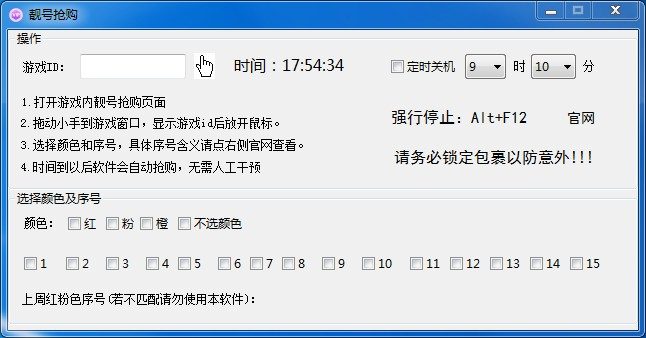
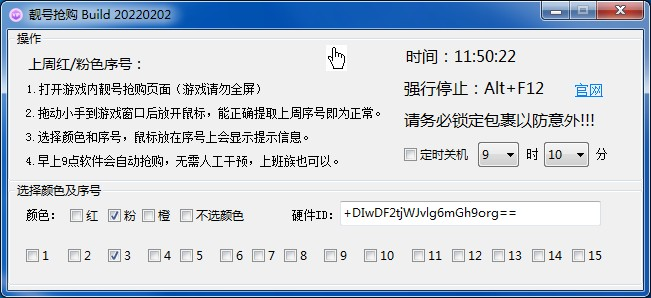
Site updated: 2022-02-02 12:14:17

diff --git a/2021/09/26/代抢靓号/index.html b/2021/09/26/代抢靓号/index.html
@@ -185,7 +185,7 @@
     
     <span class="post-meta mr-2">
       <i class="iconfont icon-chart"></i>
-      861 字
+      918 字
     </span>
   
 
@@ -233,12 +233,12 @@
 <p><strong>指定颜色</strong>：粉色100r，红色150r；</p>
 <p>如果一次抢到多个靓号，单次只收取最高的一个费用。例如同时抢到橙色和粉色的，则收费为60r而不是80r。</p>
 <p>注：报价对应1个角色，如有多个角色均收取对应费用。</p>
-<p><strong>用户自己抢：</strong>软件发给用户，软件收费每个授权50r（2022.5.1之前仅需30r），软件为先发给你用，抢到以后再支付费用，<strong>每个角色1个授权</strong>，该角色想抢多少个靓号你随意。软件下载及使用方法见：<a href="/2022/01/30/%E9%9D%93%E5%8F%B7%E6%8A%A2%E8%B4%AD%E8%BD%AF%E4%BB%B6">靓号指定颜色抢购软件</a></p>
+<p><strong>用户自己抢：</strong>软件发给用户，软件收费每个授权50r（2022.5.1之前仅需30r），软件为先发给你用，抢到以后再支付费用，<strong>每个角色1个授权</strong>，该角色想抢多少个靓号你随意，没有使用次数限制。软件下载及使用方法见：<a href="/2022/01/30/%E9%9D%93%E5%8F%B7%E6%8A%A2%E8%B4%AD%E8%BD%AF%E4%BB%B6">靓号指定颜色抢购软件</a></p>
 <p><img src="/2021/09/26/%E4%BB%A3%E6%8A%A2%E9%9D%93%E5%8F%B7/Snipaste_2022-01-30_18-56-08.jpg" srcset="/img/loading.gif" lazyload alt="指定颜色抢购软件"></p>
 </blockquote>
 <h4 id="需要准备什么？"><a href="#需要准备什么？" class="headerlink" title="需要准备什么？"></a>需要准备什么？</h4><blockquote>
 <p>1.绑定和不绑定元宝<strong>总数要2.1w以上</strong>，并将元宝总数告知我，29999元宝请报2.9w而不是3w；</p>
-<p>2.<strong>包裹务必加好密码</strong>（通常不需要告诉我，除非我找你要），务必留出<strong>5个空余格子</strong>；</p>
+<p>2.<strong>包裹务必加好密码</strong>（通常不需要告诉我，除非我找你要），务必留出<strong>5个空余格子</strong>，一个靓号道具占1个格子，还要防止在线送道具占用格子。</p>
 <p>3.若在活动期有系统赠送在线半小时道具，请于凌晨挂满3个小时，以防止抢购时刚好出现如下界面干扰抢购；如有需要可以下载定时关机软件：<a target="_blank" rel="noopener" href="https://m01.lanzouq.com/iwcZFkd9mti">https://m01.lanzouq.com/iwcZFkd9mti</a></p>
 <p><img src="/2021/09/26/%E4%BB%A3%E6%8A%A2%E9%9D%93%E5%8F%B7/Snipaste_2021-11-01_10-05-10-16357564886691.jpg" srcset="/img/loading.gif" lazyload alt="在线每半小时赠送道具的提示，请提前挂满！"></p>
 </blockquote>
@@ -246,7 +246,7 @@
 <p>代抢目前排队大约2个月以上。您可以先约定排队，等安排的时候通常会提前沟通。每个人都需要申请排队，如果你绑了朋友将军令可以扫码则可以申请多人同时排队。</p>
 </blockquote>
 <h4 id="可以插队吗？"><a href="#可以插队吗？" class="headerlink" title="可以插队吗？"></a>可以插队吗？</h4><blockquote>
-<p>一般是不建议插队的，大家都在排队等待。如果一定要插队，则额外加收50r费用（按角色收费，每角色只收1次插队费）。插队只是不需要等待排队，并不代表1次就可以抢到，也可能2-3次才能抢到。</p>
+<p>一般是不建议插队的，大家都在排队等待。如果一定要插队，则额外加收50r费用（按角色收费，每角色只收1次插队费）。插队只是不需要等待排队，并不代表1次就可以抢到，也可能2-3次才能抢到。推荐大家购买授权自己抢指定颜色，并且还便宜，上班族也可。</p>
 </blockquote>
 <h4 id="抢购时间"><a href="#抢购时间" class="headerlink" title="抢购时间"></a>抢购时间</h4><blockquote>
 <p>周一上午9:00</p>

diff --git a/2022/01/30/靓号抢购软件/index.html b/2022/01/30/靓号抢购软件/index.html
@@ -185,7 +185,7 @@
     
     <span class="post-meta mr-2">
       <i class="iconfont icon-chart"></i>
-      485 字
+      597 字
     </span>
   
 
@@ -195,7 +195,7 @@
       <i class="iconfont icon-clock-fill"></i>
       
       
-      5
+      6
        分钟
     </span>
   
@@ -244,17 +244,21 @@
 <p>1.软件需要联网对时，保持和服务器时间同步，请勿阻止联网；</p>
 <p>2.北京NPC梁浩-本周靓号-本周售卖靓号，打开抢购页面：</p>
 <p><img src="/2022/01/30/%E9%9D%93%E5%8F%B7%E6%8A%A2%E8%B4%AD%E8%BD%AF%E4%BB%B6/Snipaste_2022-01-30_19-58-58.jpg" srcset="/img/loading.gif" lazyload alt="靓号抢购界面"></p>
-<p>3.拖动软件界面的小手到游戏窗口，软件上出现游戏id时松开鼠标，选择自己需要的颜色及编号；</p>
-<p>4.游戏窗口处于当前激活状态，等待开始即可，到时间后软件会自动抢购，无需人工干预；</p>
+<p>3.拖动软件界面的小手到游戏窗口，松开鼠标，会提取到页面显示靓号的红色、粉色序号。若不能提取或提取不完整，请联系博主；</p>
+<p>4.游戏窗口至于当前激活状态，等待开始即可，9点时软件会自动抢购，无需人工干预；</p>
 </blockquote>
 <h4 id="注意事项："><a href="#注意事项：" class="headerlink" title="注意事项："></a>注意事项：</h4><blockquote>
 <p>5.上班族，可以在出门前做好上述4步，就可以做到自己抢靓号。</p>
-<p>6.游戏靓号刷新是乱序的，软件会提取出红色粉色后重新编号，红色和3w以上元宝粉色会排在前面，如果元宝不够3w请不要选1号，一般5个以内多是粉色，编号6以上就看运气了；如果什么颜色序号都不选，默认随机抢2-5中的一个。</p>
-<p>7.如果选编号13/14/15，则无法选择颜色，并且抢购的时候也会和编号10/11/12同时抢，所以选最后3个编号抢到就是随机颜色。</p>
-<p>8.<strong>包裹请务必加密码并锁定</strong>，以防出现意外情况；</p>
+<p>6.游戏靓号刷新是乱序的，软件会提取出红色粉色后重新编号，红色和3w以上元宝粉色会排在前面，如果元宝不够3w请不要选1号。如果不选颜色，就不会提取，也不会重新排序。</p>
+<p>7.如果选编号13/14/15，则无法选择颜色，并且抢购的时候也会和编号10/11/12同时抢，所以选最后3个编号抢到什么颜色取决于开发者放的什么号。</p>
+<p>8.<strong>包裹请务必加密码并锁定</strong>，以防出现意外损失；</p>
 <p>9.如果有挂机道具，建议夜里就把道具挂满，以防抢购时出现如下的挂机送道具提示：</p>
 <p><img src="/2022/01/30/%E9%9D%93%E5%8F%B7%E6%8A%A2%E8%B4%AD%E8%BD%AF%E4%BB%B6/Snipaste_2021-11-01_10-05-10-16357564886691.jpg" srcset="/img/loading.gif" lazyload alt="在线每半小时赠送道具的提示，请提前挂满！"></p>
 </blockquote>
+<p>举例说明：</p>
+<p>如果刷出1个红5个粉，并且你选红和粉，提取后1-6号排序为红在1号、贵的粉在2、3号、便宜的粉4-6号，7号以后为空。</p>
+<p>如果你选粉不选红，则1-5号排序为贵的粉在1号，便宜的粉次之，6号以后为空。</p>
+<p>通常红色粉色数量在5-7个，偶尔4个以下，偶尔8个以上。红色并非每周都有。</p>
 <h4 id="获取授权："><a href="#获取授权：" class="headerlink" title="获取授权："></a>获取授权：</h4><blockquote>
 <p>添加微信：max999，或扫下图二维码。</p>
 <p><img src="/2022/01/30/%E9%9D%93%E5%8F%B7%E6%8A%A2%E8%B4%AD%E8%BD%AF%E4%BB%B6/image-20210928160946309.png" srcset="/img/loading.gif" lazyload alt="微信：max999"></p>
